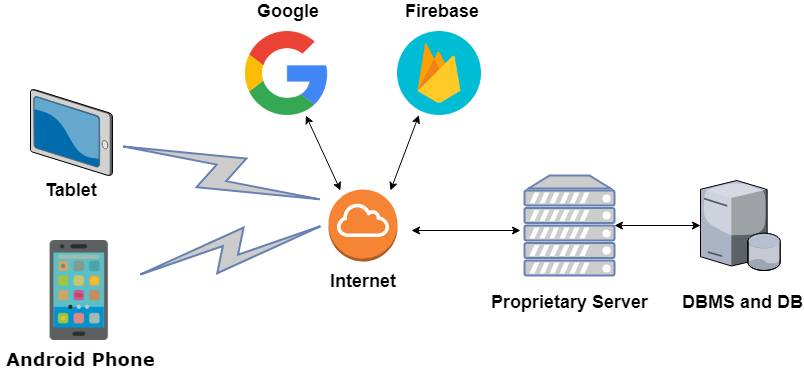
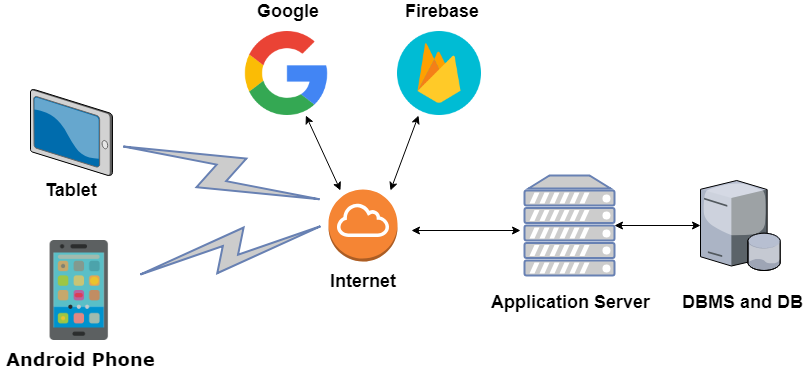
- document fixes

diff --git a/Document/Files/3_Architectural_Design.tex b/Document/Files/3_Architectural_Design.tex
@@ -7,9 +7,9 @@ In this section we describe the architectural arrangement that we designed for E
 The proposed architecture is composed by three tiers:
 
 \begin{itemize}
-\item \emph{Presentation Tier:} it’s represented by the tablet and the Mobile Android App;  they constitutes the view part of our system.
-\item \emph{Business Tier:} it’s represented by the Socket Server, which responds to the user’s requests, and the Application Server, which contains all the Business Logic. The application server communicates with the DBMS of the MySQL Database contained in the Database Tier.
-\item \emph{Database Tier:} it’s represented by the DB Server, that contains and manages persistent data in an efficient way.
+\item \emph{Presentation Tier:}it’s represented by the tablet and the Mobile Android App. They constitute the view part of our system.
+\item \emph{Business Tier:}it’s represented by the Socket Server, which responds to the user’s requests, and the Application Server, which contains all the Business Logic. The application server communicates with the DBMS of the MySQL Database contained in the Database Tier.
+\item \emph{Database Tier:}it’s represented by the DB Server, that contains and manages persistent data in an efficient way.
 \end{itemize}
 
 \vspace*{0cm}
@@ -21,7 +21,7 @@ The proposed architecture is composed by three tiers:
 
 \newpage
 \mysubsection{High Level Component View}
-The system is divided in three main layers: Presentation Layer, Business Layer and Data Layer. The presentation layer is both mobile and tablet application. For both we have a very thin client with the main aim of performing requests to the application server in the Business layer and receives the demanded information to manage and show locally.
+The system is divided in three main layers: Presentation Layer, Business Layer and Data Layer. The presentation layer is represented by both mobile and tablet application.
 
 \vspace*{0.5cm}
 \begin{figure}[H]
@@ -31,16 +31,16 @@ The system is divided in three main layers: Presentation Layer, Business Layer a
 \end{figure}
 \vspace*{0cm}
 \mysubsubsection{Client-side Application}
-In this section we are going to illustrate the general architecture of our client application.EasyLib can be fairly considered in the middle between a thin and a fat client. The data are requested client side and correctly retrieved with the work performed by the application server and the DBMS. Nonetheless, on the client side the data are checked, filtered and formatted in order to give the most pleasant screen view.
+In this section we are going to illustrate the general architecture of our client application. EasyLib can be fairly considered in the middle between a thin and a fat client. The data are requested client side and correctly retrieved with the work performed by the application server and the DBMS. Nonetheless, on the client side the data are checked, filtered and formatted in order to give the most pleasant screen view.
 \\ 
 In order to accomplish efficiently the communication task, the client exploits two different android services: 
 
 \begin{itemize}
 \item \emph{Connection service:}it manages the communication with the server. It opens a socket connection and keep it alive in order to send and receive messages in any moment and in an asynchronous fashion.
-\item \emph{Check connection service:}It constantly checks if there is internet connection available and if is not the case makes the user aware of this forbidding any dangerous actions that could lead to a misbehaviour of the app.
+\item \emph{Check connection service:}It constantly checks if there is internet connection available and, if is not the case, makes the user aware of this forbidding any dangerous actions that could lead to a misbehaviour of the app.
 \end{itemize}
 
-As in the server side, we implemented a system to decode the messages received from the server. Here the task was heavier than the application server homologous due to some Android constraints. In fact the messages have to be passed through two different classes before reaching the application context and be manipulated to modify the view. The service thread is in charge of this massage handling. First of all the message received is used as key in a functional HashMap to trigger the correspondent method that receive the expected object from the input socket channel, wrap it in a bundle and pass it to the next class. Here another functional map allows to call the correct method and send the object along with its related message to current application context where a Broadcast receiver component is listening for incoming inputs.
+We implemented a system to decode the messages received from the server. The messages have to be passed through two different classes before reaching the application context and be manipulated to modify the view. The service thread is in charge of this massage handling. First of all the message received is used as key in a functional HashMap to trigger the correspondent method that receives the expected object from the input socket channel, wrap it in a bundle and pass it to the next class. Here another functional map allows to call the correct method and send the object along with its related message to current application context where a Broadcast receiver component is listening for incoming inputs.
 
 
 \mysubsubsection{Application Server}
@@ -49,7 +49,7 @@ Our application server is divided in three parts: socket connection layer, reque
 
 \begin{itemize}
 \item \emph{Socket connection layer:}this layer is always listening for new connection requests. When a new client claims to log in or register to EasyLib, the connection layer grab its request creating a new socket connection. After that the TCP connection has been established, all the communications pass through this one and the messages delivered to the subsequent component.
-\item \emph{Request decoding layerr:}this layer implemented in the Java class called ServerDataHandler, receives the request grabbed by the connection layer and decodes it in order to trigger the functions to produce the requested answer on the DatabaseManager class and take back their output. The decoding of the requests has been made using a functional Hash Map that has as key a string and as value a function reference that is triggered when the correspondent string is received from the client.
+\item \emph{Request decoding layer:}this layer implemented in the Java class called ServerDataHandler, receives the request grabbed by the connection layer and decodes it in order to trigger the functions to produce the requested answer on the DatabaseManager class and take back their output. The decoding of the requests has been made using a functional Hash Map that has as key a string and as value a function reference that is triggered when the correspondent string is received from the client.
 \item \emph{Database manager:}this final layer is the core of the system business logic. It receives the directive from the previous layer, produces SQL statement and send them to the DBMS to retrieve the requested data. Then, it manipulates and format the data before sending them back to the client through the Socket connection layer.
 \end{itemize}
 
@@ -226,14 +226,14 @@ Here we provide a deployment strategy for our system.
 
 \newpage
 \mysubsection{Non-Functional Requirements}
-Here we state some non functional requirements that our system must respect during the execution.
+Here we state some non-functional requirements that our system must respect during the execution.
 
 \begin{itemize}
-\item \emph{Performance:} The system must be able to respond to a consistent number of user requests simultaneously. All the data requested by the users and the needed computations must respectively retrieved and performed as soon as possible and as efficiently as possible.
+\item \emph{Performance:} The system must be able to respond to a consistent number of user requests simultaneously. All the data requested by the users and the needed computations must respectively be retrieved and performed as soon as possible and as efficiently as possible.
 
 \item \emph{Reliability:} The system must guarantee a 24/7 service. The information must be stored in proprietary Database in order to be always available to the user when required.
 \item \emph{Scalability:} The system must ensure a high level of scalability, since new libraries can join the system in any moment enlarging EasyLib supply.
-\item \emph{Security:} All users’ passwords are encrypted using a hash function with salt. In this way the attacker cannot see the plain text password and steal sensitive information.
+\item \emph{Security:} All users’ passwords are encrypted using a hash function with salt. In this way the attackers cannot see the plain text password and steal sensitive information.
 
 \item \emph{Accuracy:} The data retrieved by the application has to be accurate and up-to-date in a real-time fashion.
 \end{itemize}

diff --git a/Document/Files/2_Overall_Description.tex b/Document/Files/2_Overall_Description.tex
@@ -214,13 +214,13 @@
 \end{figure}
 \begin{enumerate}
 \item \emph{Advanced book search:}the user can search a book in the libraries using any combination of parameters between title, author’s name and category and, if he needs, he can also restrict his search in only one of the available libraries. If the user is in the library, he can scan a QR code on the book to retrieve all its information.
-\item \emph{Consulting book information:} the user can to consult all the available book’s information such as title, author’s name, category, publisher, the number of copies of the book available in each library, etc.
+\item \emph{Consulting book information:} the user can consult all the available book’s information such as title, author’s name, the number of copies of the book available in each library, etc.
 \item \emph{Reserve or get in line for a book:} the user can reserve a copy of the book if available or get in line for it just tapping a bottom.
 \item \emph{Visualize libraries’ news and events:}the user can remain constantly up-to-date with the new events organized and news posted by the available libraries checking out their dedicated pages. 
 \item \emph{Book a seat to an event:} : the user can book a seat in the events organized by the libraries to avoid the risk of missing the meeting with his favourite authors.
-\item \emph{Save favourite libraries:}the user can select his favourite libraries between that one present on the system in order to have a rapid access to their books, events and news. 
+\item \emph{Save favourite libraries:} the user can select his favourite libraries between that ones present on the system in order to have a rapid access to their books, events and news. 
 \item \emph{Set ratings:} the user can rate the books that he has read to spread his opinion to other readers.
-\item \emph{Keep track of read books:}the user can always access to the list of the book that he read directly and intuitively from his profile.
+\item \emph{Keep track of read books:} the user can always access to the list of the book that he read directly and intuitively from his profile.
 \end{enumerate}
 
 \newpage
@@ -233,7 +233,7 @@
 \begin{enumerate}
 \item \emph{Visualize his library information:}the librarian can visualize all the information inserted in his library such as books available, events, news, etc.
 \item \emph{Identify the user that reserved a book:} the librarian can scan the QRcode of a book and retrieve all the reservation for that book and the related user id. In this way the user can show to the librarian his personal Id authenticating himself and allowing the book delivering. A paired process is followed when the user returns a book.
-\item \emph{Record that a user has returned a book:}we the same approach of the former feature, the librarian can update into the Database a book status to returned.
+\item \emph{Record that a user has returned a book:} with the same approach of the former feature, the librarian can update into the Database a book status to returned.
 \end{enumerate}
 
 
@@ -244,5 +244,5 @@ In order to have the aimed behaviour of the app, few domain constraints must be 
 	\item The user needs to have a mobile phone or a tablet that support Android OS.
 	\item The Android OS version installed on the device must be KitKat (API level 19) or higher.
 	\item An access to an internet connection is always needed.
-	\item The must to be able to easily reach the physical library location to use the functionalities that need an interaction with the librarians, such as take and return a reserved book.
+	\item The users must be able to easily reach the physical library location to use the functionalities that need an interaction with the librarians, such as take and return a reserved book.
 \end{itemize}

diff --git a/Document/Files/1_Introduction.tex b/Document/Files/1_Introduction.tex
@@ -6,7 +6,7 @@ The purpose of this document is to provide a full description of the design of t
 EasyLib and EasyLib - Librarian mobile applications, two native Android applications, providing insights into the goal of the system, the design of each component and how the project has been managed.
 
 \mysubsection{Scope}
-EasyLib is a mobile application that manages to make easier multiple management tasks that nowadays a library needs to deal with. It answers all the questions for which a library visitor usually stuck for an answer such as books description and availability, waiting queue for reserve a book, events taking place and news related to the library, and make really easy to the book search and reservation. The application allow the user to interface with all the libraries that choose to use EasyLib as management system, using a single identification process to interact with all of them.
+EasyLib is a mobile application that manages to make easier multiple management tasks that nowadays a librarians and libraries' users needs to deal with. It answers all the questions for which a library visitor usually stuck for an answer such as books description and availability, waiting queue for reserve a book, events taking place and news related to the library, and make really easy the book search and reservation. The application allow the user to interface with all the libraries that choose to use EasyLib as management system, using a single identification process to interact with all of them.
 EasyLib has been thought to cover also the Librarian necessity and help him into his daily work automatizing the book delivering and returning process and helping him to schedule his work. However, the librarian system that we are going to present in this document is a prototype with a fraction of the functionalities that have been designed and are left to a future upgraded of the app.
 
 
@@ -36,7 +36,7 @@ This paper is divided in six chapter.\\
 The first chapter is composed by an introduction of the system, its application domain, its goals and a glossary containing the most common expression used in order to give to the reader a basic knowledge of the system and to make him understand better the subsequent parts.\\\par
 In the second chapter we have provided a list of all the applications goals and the related requirements and we also listed their core functionalities with a synthetic description.\\
 
-The third chapter is devoted to the exposure of the overall design architecture of the system, the identification and definition of all the software components that characterize our system end to end and the external services and libraries used to accomplish all the goals that we aimed to satisfy. We also shown a deployment proposal and non-functionals requirements that we need to respect.\\
+The third chapter is devoted to the exposure of the overall design architecture of the system, the identification and definition of all the software components that characterize our system end to end, the external services and libraries used to accomplish all the goals that we aimed to satisfy. We also shown a deployment proposal and non-functionals requirements that we need to respect.\\
 
 The fourth chapter is exploited to show the most relevant decisions taken in the UI design and to show how the application looks to the final user using images taken during the real usage.\\
 

diff --git a/Document/Files/4_User_Interface_Design.tex b/Document/Files/4_User_Interface_Design.tex
@@ -23,7 +23,7 @@ Here are some of the main aspects :
 
 \vspace{5mm}
 \mysubsubsection{Register \& Login}
-When the app opens up the user can Login filling up the form with his Email or Password (Figure 1) or he can Register opening the Register Activity and filling that form (Figure 2). In other cases it can happen that the user needs to reset his password cause he has forgotten it or maybe his already logged in so the app will show just a Loading (Figure 3).
+When the app opens up the user can Login filling up the form with his Email or Password (Figure 1) or he can Register opening the Register Activity and filling that form (Figure 2). In other cases can happen that the user needs to reset his password or maybe he is already logged in. In the former case the app will show just a Loading (Figure 3).
 \begin{figure}[H]
 	\centering
 	\includegraphics[scale=0.15]{Images/UI/Login_Register/1}
@@ -37,7 +37,7 @@ When the app opens up the user can Login filling up the form with his Email or P
 \vspace{3mm}
 \mysubsubsection{Libraries + Set Favourite}
 On MainActivity with the Home Fragment (Figure 1) the user can see the Libraries that he has set as favourite and open them in order to see their content. Otherwise he can tap on "All Libraries" button and the list of the all available ones will appear (Figure 2).\par
-Once a library is select the LibraryActivity will open up showing at the top the library information and underneath its contents (news, events, books). At the end a button will be shown in order to make the user able to set the library as Favourite / remove it from Favourites (Figure 3).
+Once a library is selected the LibraryActivity will open up showing at the top the library information and its contents underneath (news, events, books). At the end a button will be shown in order to make the user able to set the library as Favourite / remove it from Favourites (Figure 3).
 \begin{figure}[H]
 	\centering
 	\includegraphics[scale=0.15]{Images/UI/Libraries/1}
@@ -50,7 +50,7 @@ Once a library is select the LibraryActivity will open up showing at the top the
 
 \newpage
 \mysubsubsection{Events + Reserve Seat}
-As previously seen, inside the LibraryActivity are shown the events organized by the library so the user can open them and see their info (Figure 1). Moreover in case there are still available seats he can reserve a seat.\par
+As previously seen, inside the LibraryActivity the events organized by the library are shown. The user can open them and see their info (Figure 1). Moreover in case there are still available seats he can reserve one of them.\par
 All the events joined by the user are shown on the Profile (Figure 2).
 \begin{figure}[H]
 	\centering

diff --git a/Document/Files/5_Runtime_View.tex b/Document/Files/5_Runtime_View.tex
@@ -1,13 +1,13 @@
 \vspace*{-5mm}
 \mysection{Runtime View}
-In this section we will see some Runtime Views in order to see how the components interact according to specific requests.\par
-For the server-side we have taken into consideration the high-level Application Server only, without identifying the specific components of it. We also separate it from the DB, cause they are in 2 different machines.
+In this section we will show some Runtime Views in order to see how the components interact according to specific requests.\par
+For the server-side we have taken into consideration the high-level Application Server only, without identifying its fine grained components. We also separated it from the DB, cause they rely on 2 different machines.
 
 \mysubsection{EasyLib}
 \vspace*{0.5cm}
 
 \mysubsubsection{QR-Code Scan + Book Reservation}
-This Runtime View shows the different steps needed to find book information through QR-code scan and reserve it.\par
+This Runtime View shows the different steps needed to retrieve book information through QR-code scan and reserve it.\par
 We have to make an assumption : in the following diagram we reported only the most meaningful calls needed to achieve the goal.\par
 So starting from the Main Activity the User has to tap the “QR scan” icon on the bottom NavBar and the EasyLib app will open the “QR Scan Activity”. Thanks to the camera of the smartphone or tablet the QR-image is captured and an identifier is returned. This one is the book identifier and is sent to the server (and so the DB) to get back the information. The “Book Activity” is started and book information are set in the layout.\par
 In order to let the user reserve the book, the app gets from the server (and so the DB) a list of libraries where it’s available. They are next passed to the BookActivityAdapter that creates the single items of the recyclerView placed under the book information.
